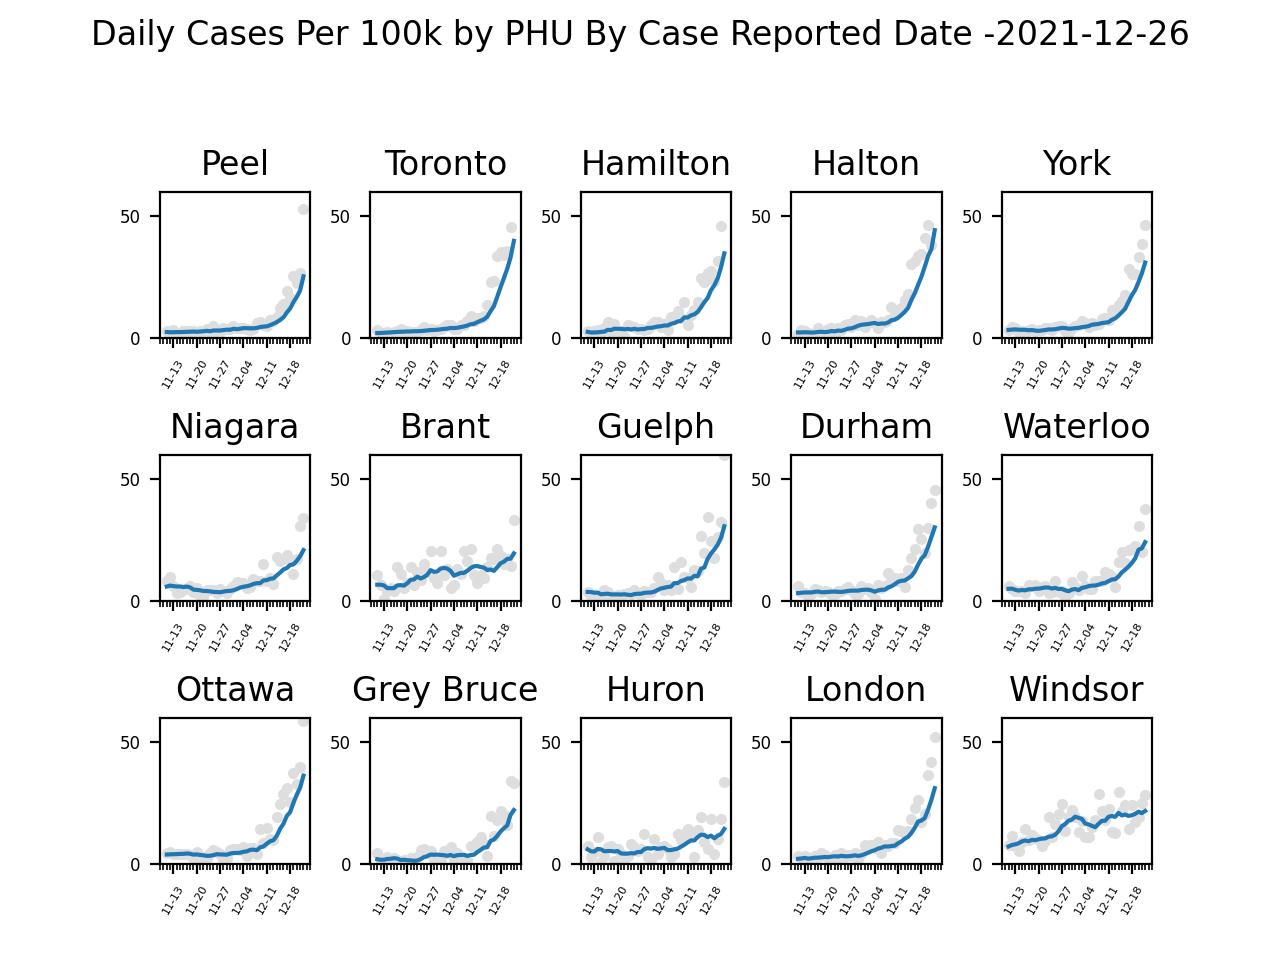
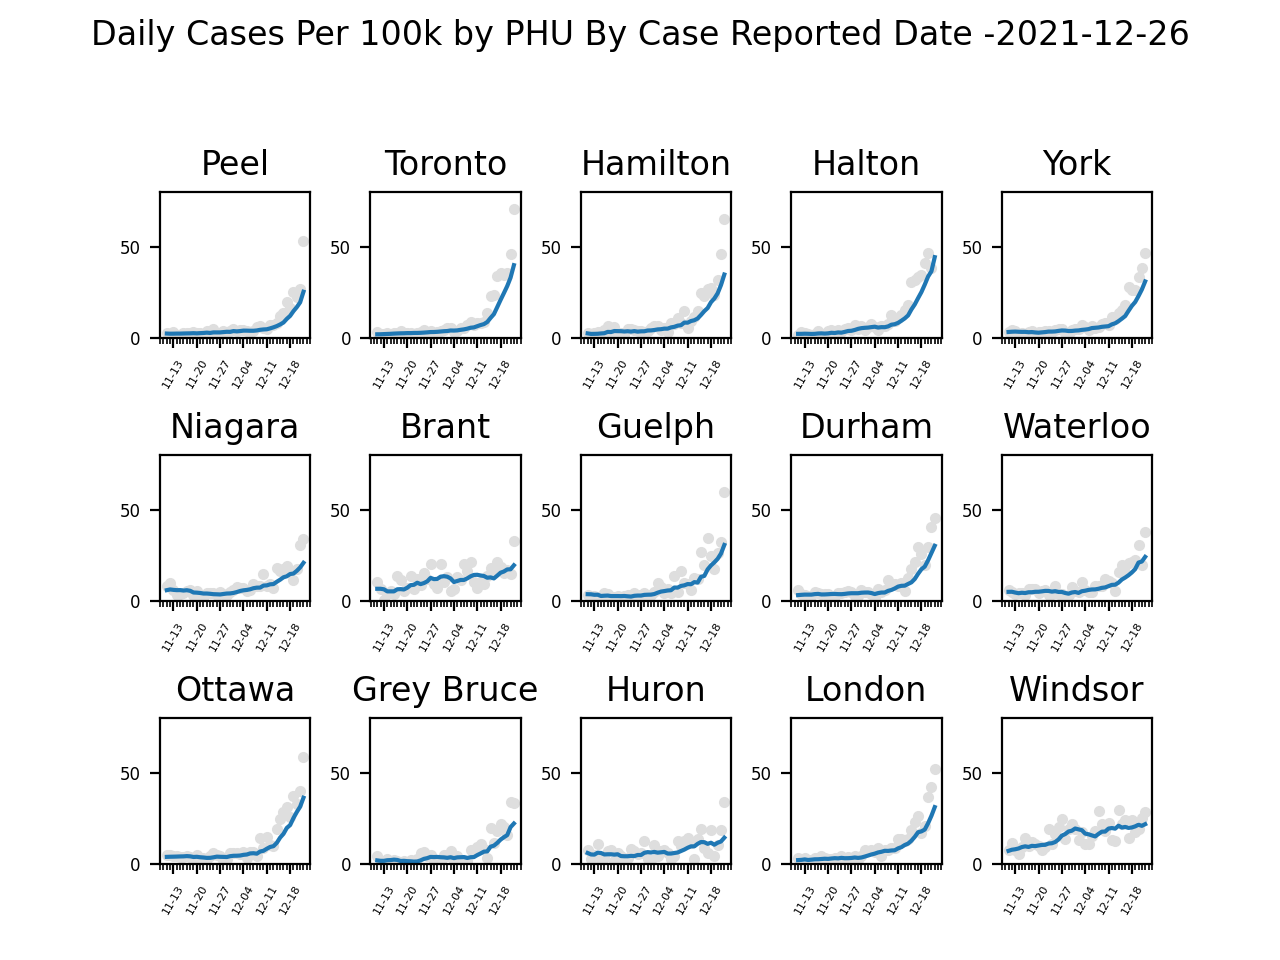
automated

diff --git a/Scripts/Covid_AnalysisPlot.py b/Scripts/Covid_AnalysisPlot.py
@@ -414,7 +414,7 @@ print (chartX[-14:])
 spRow = 3
 spCol = 5
 yLimMin = 0
-yLimMax = 60
+yLimMax = 80
 ytickSize = 6
 yTickColor = 'black'
 
